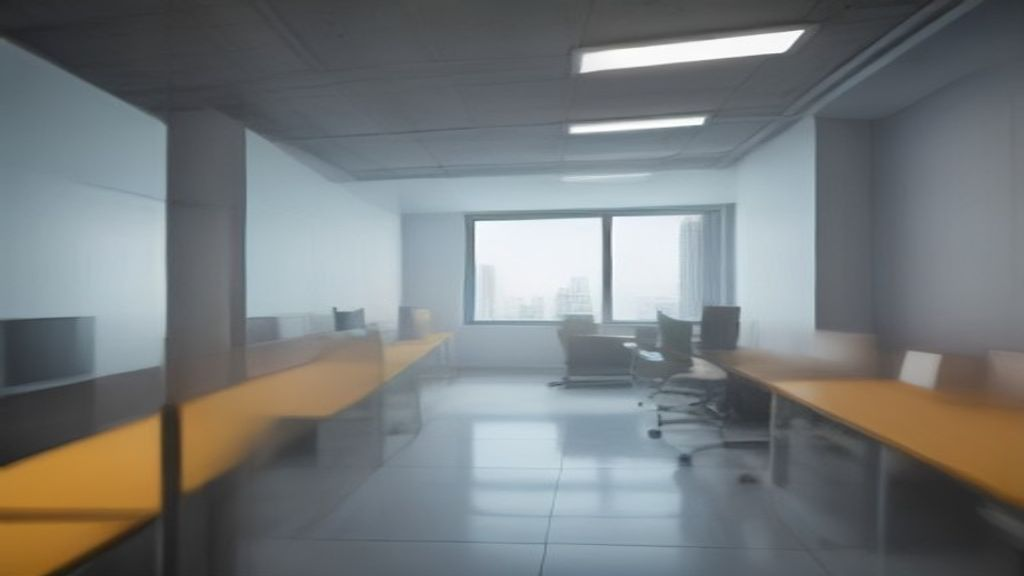
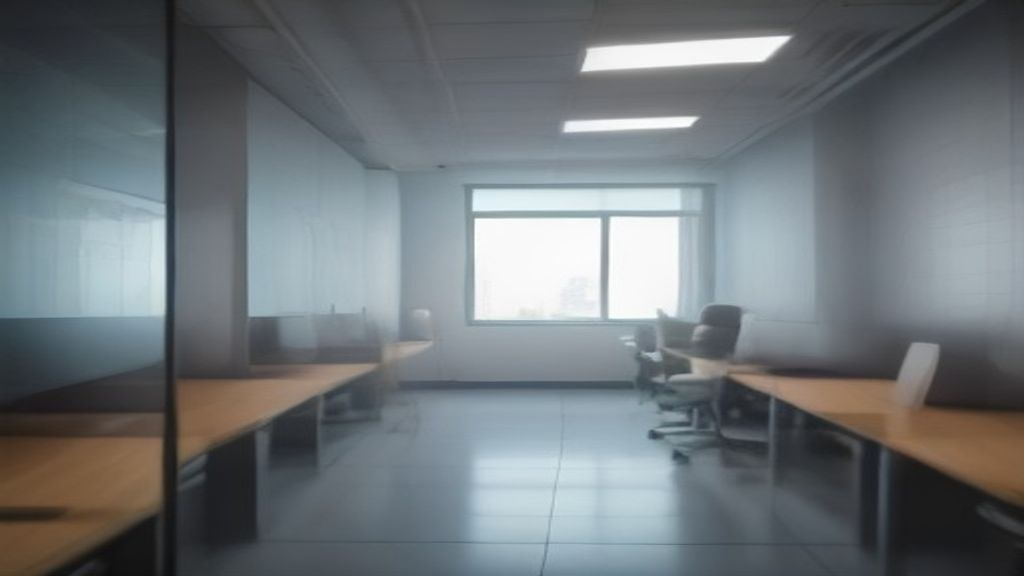
blog: digital-marketing-guide-arab-businesses

diff --git a/src/content/blog/digital-marketing-guide-arab-businesses.md b/src/content/blog/digital-marketing-guide-arab-businesses.md
@@ -1,116 +1,137 @@
 ---
-title: "الدليل الشامل للتسويق الرقمي للشركات العربية: كيف تسيطر على سوق السعودية والإمارات ومصر والأردن في 2026؟"
-description: "اكتشف استراتيجيات التسويق الرقمي الفعالة لزيادة مبيعات شركتك في السوق العربي. دليل تفصيلي حول السيو، إعلانات جوجل، والسوشيال ميديا لتحقيق نمو حقيقي."
-date: "2026-09-07"
+title: "الدليل الشامل للتسويق الرقمي للشركات العربية في 2026: كيف تضاعف مبيعاتك؟"
+description: "تعرف على استراتيجيات التسويق الرقمي الحديثة للشركات في السعودية، الإمارات، مصر، والأردن. دليل تفصيلي حول السيو، إعلانات جوجل، والسوشيال ميديا لزيادة الأرباح."
+date: "2026-09-09"
 author: "يلا ادز"
 image: "/blog-images/digital-marketing-guide-arab-businesses.jpg"
-tags: ["تسويق رقمي", "سيو", "إعلانات جوجل"]
+tags: ["تسويق رقمي", "سيو"]
 ---
 
-في ظل التحول الرقمي المتسارع الذي تشهده المنطقة العربية، لم يعد التواجد على الإنترنت مجرد "خيار" إضافي للشركات، بل أصبح ضرورة للبقاء والنمو. سواء كنت تدير شركة ناشئة في الرياض، أو متجراً إلكترونياً في دبي، أو وكالة خدمات في القاهرة أو عمان، فإن العميل العربي اليوم يبدأ رحلة الشراء من محرك البحث أو منصات التواصل الاجتماعي.
+# الدليل الشامل للتسويق الرقمي للشركات العربية في 2026: كيف تضاعف مبيعاتك؟
 
-لكن السؤال الجوهري هو: كيف تبرز وسط هذا الزحام الرقمي؟ وكيف تحول الزوار العابرين إلى عملاء مخلصين يدفعون مقابل خدماتك؟ في هذا الدليل الشامل من "يلا ادز"، سنقوم بتشريح استراتيجيات التسويق الرقمي الأكثر فعالية والمصممة خصيصاً لتناسب سلوك المستهلك في الخليج وشمال أفريقيا.
+في ظل التحول الرقمي المتسارع الذي تشهده المنطقة العربية، لم يعد التواجد على الإنترنت "خياراً" إضافياً للشركات، بل أصبح ضرورة استراتيجية للبقاء والنمو. سواء كنت تدير شركة ناشئة في الرياض، أو متجراً إلكترونياً في دبي، أو مكتباً استشارياً في القاهرة أو عمان، فإن العميل الذي تبحث عنه يتواجد الآن على هاتفه المحمول، يبحث عن خدماتك عبر جوجل، أو يتصفح منصات التواصل الاجتماعي.
 
-## لماذا يختلف التسويق الرقمي في المنطقة العربية؟
+لكن السؤال الجوهري هو: **كيف تصل إلى هذا العميل وسط هذا الضجيج الرقمي الهائل؟**
 
-قبل الغوص في الأدوات التقنية، يجب أن نفهم أن السوق العربي ليس كتلة واحدة. هناك تباين كبير في السلوك الشرائي بين السعودية والإمارات ومصر والأردن.
+في هذا الدليل التفصيلي من "يلا ادز"، سنأخذك في رحلة تعليمية وعملية حول ركائز التسويق الرقمي الثلاث: تحسين محركات البحث (SEO)، إعلانات جوجل المدفوعة، واستراتيجيات السوشيال ميديا، مع التركيز على خصوصية السوق العربي.
 
-1.  **السوق السعودي والإماراتي:** يتميز بقوة شرائية عالية جداً، وميل كبير نحو استخدام تطبيقات الهاتف المحمول، والاعتماد المكثف على "سناب شات" و"تيك توك" و"إنستغرام".
-2.  **السوق المصري والأردني:** يتميز بكثافة سكانية هائلة وتفاعل اجتماعي مرتفع جداً على "فيسبوك"، مع حساسية أكبر تجاه السعر والعروض الترويجية.
+## أولاً: لماذا يختلف التسويق الرقمي في المنطقة العربية؟
 
-إحصائياً، تشير التقارير الحديثة إلى أن أكثر من 70% من المستهلكين في السعودية يبحثون عن المنتجات عبر الإنترنت قبل زيارة المتجر الفعلي، مما يجعل "ظهورك الرقمي" هو الواجهة الأولى لعلامتك التجارية.
+قبل الدخول في التفاصيل التقنية، يجب أن ندرك أن المستهلك في السعودية أو الإمارات يختلف في سلوكه الشرائي عن المستهلك في مصر أو الأردن. 
 
-## أولاً: تحسين محركات البحث (SEO) - استثمار طويل الأمد
+1. **قوة المحتوى المرئي:** يميل الجمهور العربي بشكل كبير إلى الفيديوهات القصيرة (Reels و TikTok) أكثر من المقالات الطويلة.
+2. **الثقة والمصداقية:** العميل العربي يبحث عن "التوصيات" (Reviews) والشهادات الحقيقية قبل اتخاذ قرار الشراء.
+3. **تنوع اللهجات:** استهداف الجمهور باللغة العربية الفصحى ضروري للمصداقية، لكن استخدام اللهجات المحلية في الإعلانات يزيد من معدلات التحويل (Conversion Rates) بشكل ملحوظ.
 
-يعتبر السيو (SEO) هو العمود الفقري لأي استراتيجية تسويقية ناجحة. بدلاً من دفع مبالغ مستمرة للإعلانات، يمنحك السيو "زيارات مجانية" ومستدامة.
+### إحصائيات تهمك في 2026:
+- تشير الدراسات الحديثة إلى أن أكثر من 70% من عمليات الشراء في الخليج العربي تبدأ ببحث على محرك جوجل.
+- تزايد الاعتماد على "التجارة عبر التواصل الاجتماعي" (Social Commerce) بنسبة 40% في الأسواق المصرية والأردنية.
+- متوسط الوقت الذي يقضيه المستخدم العربي على منصات التواصل الاجتماعي يتجاوز 3 ساعات يومياً.
+
+---
+
+## ثانياً: سيو (SEO) - كيف تتصدر نتائج البحث وتجذب عملاء مجانيين؟
+
+تحسين محركات البحث أو الـ SEO هو الاستثمار طويل الأمد الذي يضمن لشركتك تدفقاً مستمراً من الزوار دون الحاجة لدفع مبالغ مالية مقابل كل نقرة.
 
 ### 1. البحث عن الكلمات المفتاحية (Keyword Research)
-الخطأ الأكبر الذي تقع فيه الشركات العربية هو استهداف كلمات مفتاحية عامة جداً. بدلاً من استهداف كلمة "أحذية"، استهدف "أفضل أحذية طبية في الرياض". هذا ما نسميه "الكلمات المفتاحية ذات الذيل الطويل" (Long-tail Keywords)، وهي التي تجلب عملاء جاهزين للشراء فعلياً.
+الخطأ الأكبر الذي تقع فيه الشركات العربية هو استهداف كلمات عامة جداً. بدلاً من استهداف كلمة "شركة تسويق"، استهدف "أفضل شركة تسويق رقمي في الرياض". هذه تسمى **الكلمات المفتاحية الطويلة (Long-tail Keywords)**، وهي التي تجلب عملاء جاهزين للشراء فعلياً.
 
-### 2. تحسين المحتوى العربي (Content Optimization)
-محركات البحث مثل جوجل أصبحت تفهم اللغة العربية بشكل أفضل، لكنها لا تزال تفضل المحتوى الذي يقدم "قيمة حقيقية". لا تكتب من أجل الروبوتات، بل اكتب من أجل البشر. استخدم لغة بيضاء (فصحى مبسطة) يفهمها الجميع من الخليج إلى المحيط.
+### 2. تحسين المحتوى (On-Page SEO)
+يجب أن يكون محتواك مفيداً ويجيب على تساؤلات العميل. لا تكتب من أجل محرك البحث، بل اكتب من أجل الإنسان، ثم قم بتنسيق المقال ليفهمه جوجل. تأكد من:
+- استخدام ترويسات (H1, H2, H3) واضحة.
+- تحسين سرعة تحميل الموقع (خاصة لمستخدمي الجوال).
+- كتابة وصف ميتا (Meta Description) جذاب يشجع على النقر.
 
-### 3. السيو المحلي (Local SEO)
-إذا كان لديك مقر في دبي أو القاهرة، فإن "جوجل خرائط" (Google Business Profile) هو كنزك المدفون. تأكد من توثيق نشاطك التجاري، وإضافة صور حقيقية، وتحفيز عملائك على ترك مراجعات إيجابية، لأن هذا يرفع ترتيبك في نتائج البحث المحلية بشكل مذهل.
+### 3. بناء السلطة والروابط الخارجية (Off-Page SEO)
+جوجل يثق في المواقع التي تشير إليها مواقع أخرى موثوقة. ابحث عن شراكات مع مدونات تقنية أو إخبارية عربية لنشر مقالات تتحدث عن خدماتك. إذا كنت ترغب في معرفة المزيد حول كيفية بناء استراتيجية محتوى متكاملة، يمكنك الاطلاع على مقالنا حول [أهمية التسويق بالمحتوى](/blog/content-marketing-importance) لزيادة وعي العملاء بعلامتك التجارية.
 
-لتعميق معرفتك في هذا المجال، يمكنك الاطلاع على مقالنا المفصل حول [أسرار تصدر نتائج البحث في جوجل](/blog/seo-secrets-arabic) لضمان وصول عملائك إليك قبل المنافسين.
+---
 
-## ثانياً: إعلانات جوجل (Google Ads) - الطريق السريع للمبيعات
+## ثالثاً: إعلانات جوجل (Google Ads) - الطريق المختصر للنتائج السريعة
 
-بينما يحتاج السيو إلى وقت، تمنحك إعلانات جوجل نتائج فورية. لكن بدون استراتيجية، قد تكون هذه الإعلانات مجرد "حرق للأموال".
+إذا كان السيو هو "الزراعة" التي تجني ثمارها لاحقاً، فإن إعلانات جوجل هي "الصيد المباشر". أنت تدفع لتظهر في النتيجة الأولى فوراً أمام العميل الذي يبحث عن خدمتك الآن.
 
-### استراتيجيات إعلانات جوجل الناجحة للشركات العربية:
+### أنواع الحملات التي ننصح بها للشركات العربية:
+1. **حملات البحث (Search Ads):** مثالية للخدمات العاجلة (مثل: سباك في دبي، شركة نقل عفش في جدة).
+2. **حملات الشبكة الإعلانية (Display Ads):** ممتازة لزيادة الوعي بالعلامة التجارية (Brand Awareness) من خلال صور جذابة تظهر في المواقع الإخبارية.
+3. **إعلانات التسوق (Shopping Ads):** الخيار الأول والأساسي لأصحاب المتاجر الإلكترونية في السعودية والإمارات.
 
-*   **شبكة البحث (Search Network):** استهدف الأشخاص الذين يبحثون عن خدمتك الآن. إذا كنت شركة شحن في الأردن، فإن ظهورك في النتيجة الأولى عندما يبحث العميل عن "شركة شحن سريعة في عمان" هو مفتاح النجاح.
-*   **إعلانات إعادة الاستهداف (Remarketing):** هل لاحظت أنك تدخل موقعاً معيناً ثم تلاحقك إعلاناته في كل مكان؟ هذا هو سر زيادة التحويلات. العميل نادراً ما يشتري من المرة الأولى، لذا فإن تذكيره بمنتجك يعيد بناء الثقة ويزيد من احتمالية إتمام العملية.
-*   **تحسين صفحة الهبوط (Landing Page Optimization):** أكبر خطأ هو توجيه إعلان مدفوع إلى الصفحة الرئيسية للموقع. يجب أن يذهب العميل إلى صفحة مخصصة تعرض العرض الذي نقر عليه، مع وجود "زر اتخاذ إجراء" (CTA) واضح وصريح مثل "اطلب الآن" أو "احصل على استشارة مجانية".
+### نصائح ذهبية لخفض تكلفة النقرة (CPC) وزيادة العائد:
+- **تحديد الموقع الجغرافي بدقة:** لا تستهدف "السعودية" كاملة إذا كانت خدمتك تتركز في "المنطقة الشرقية" فقط.
+- **استخدام الإضافات (Ad Extensions):** أضف رقم هاتفك، وموقع شركتك، وروابط سريعة لصفحات الخدمات لزيادة نسبة النقر (CTR).
+- **صفحة الهبوط (Landing Page):** أكبر خطأ هو توجيه العميل إلى الصفحة الرئيسية للموقع. وجهه إلى صفحة مخصصة تتحدث عن العرض الذي رآه في الإعلان فقط.
 
-نحن في "يلا ادز" نؤمن بأن التكامل هو السر، لذا ننصحك بدمج [إدارة الحملات الإعلانية الممولة](/blog/paid-ads-management) مع استراتيجية السيو لتحقيق أقصى استفادة من ميزانيتك التسويقية.
+---
 
-## ثالثاً: التسويق عبر منصات التواصل الاجتماعي (Social Media)
+## رابعاً: السوشيال ميديا - بناء المجتمع والولاء
 
-في العالم العربي، السوشيال ميديا ليست للترفيه فقط، بل هي محرك أساسي لاتخاذ قرار الشراء.
+في العالم العربي، السوشيال ميديا ليست مجرد منصة للإعلان، بل هي "مجلس" للتواصل.
 
-### اختيار المنصة المناسبة حسب الجمهور:
+### اختيار المنصة المناسبة حسب جمهورك:
+- **إنستجرام وتيك توك:** إذا كانت منتجاتك بصرية (أزياء، مطاعم، ديكور، تجميل). الجمهور هنا يبحث عن الإبهار البصري والفيديوهات القصيرة.
+- **لينكد إن (LinkedIn):** إذا كانت شركتك تقدم خدمات B2B (خدمات للشركات الأخرى، استشارات قانونية، برمجيات).
+- **فيسبوك:** لا يزال يتصدر في مصر والأردن للتواصل المجتمعي والمجموعات (Groups).
+- **سناب شات:** القوة الضاربة في السوق السعودي، خاصة للفئات العمرية الشابة.
 
-1.  **تيك توك وسناب شات:** هما الملوك في السعودية والكويت والإمارات، خاصة للفئات العمرية الشابة. المحتوى هنا يجب أن يكون "عفوياً"، "سريعاً"، و"بصرياً". ابتعد عن الإعلانات التقليدية المملة، واتجه نحو "صناعة المحتوى" الذي يحل مشكلة.
-2.  **إنستغرام:** المنصة المثالية للمنتجات التي تعتمد على الشكل (أزياء، ديكور، مطاعم، تجميل). ركز على "الريلز" (Reels) والقصص (Stories) لبناء علاقة تفاعلية مع المتابعين.
-3.  **فيسبوك:** لا يزال يتصدر المشهد في مصر والأردن والمغرب العربي. هو الأفضل لبناء المجتمعات (Groups) وإدارة الحملات الإعلانية الدقيقة التي تستهدف اهتمامات محددة.
-4.  **لينكد إن (LinkedIn):** إذا كانت شركتك تقدم خدمات للشركات الأخرى (B2B)، فإن لينكد إن هو مكانك الوحيد لبناء السلطة المهنية وجذب الشركاء والعملاء رفيعي المستوى.
+### استراتيجية المحتوى الناجحة:
+لا تجعل حسابك "كتالوج" للمنتجات والأسعار فقط، بل اتبع قاعدة (80/20):
+- **80% محتوى تعليمي، ترفيهي، أو تفاعلي:** نصائح، قصص نجاح، كواليس العمل، استطلاعات رأي.
+- **20% محتوى بيعي مباشر:** عروض، خصومات، طلب شراء.
 
-### نصيحة ذهبية في السوشيال ميديا: "قاعدة 80/20"
-لا تجعل حسابك عبارة عن كتالوج للمنتجات. اجعل 80% من محتواك تعليمياً، ترفيهياً، أو ملهماً، و20% فقط هو الذي يروج لمنتجاتك بشكل مباشر. هذا يبني "ولاءً" للعلامة التجارية بدلاً من النفور من الإعلانات.
+لضمان وصول هذا المحتوى لأكبر عدد من الناس، يمكنك دمج استراتيجيات السوشيال ميديا مع [إعلانات ممولة](/blog/paid-ads-guide) مدروسة تستهدف بدقة اهتمامات وعمر وموقع جمهورك المستهدف.
 
-## رابعاً: تحليل البيانات وتطوير الأداء (Analytics)
+---
 
-التسويق الرقمي بدون تحليل بيانات هو مجرد "تخمين". يجب أن تعرف من أين يأتي عملاؤك، وما هي الصفحة التي يغادرون منها موقعك، وما هو المنتج الذي يثير اهتمامهم أكثر.
+## خامساً: كيف تقيس نجاح حملاتك التسويقية؟ (التحليلات)
+
+التسويق بدون تحليل هو مجرد "تخمين". لكي تعرف أين تضع ميزانيتك في الشهر القادم، يجب أن تراقب الأرقام التالية:
+
+1. **معدل التحويل (Conversion Rate):** كم شخصاً من الذين زاروا موقعك قاموا فعلياً بالشراء أو التواصل معك؟
+2. **تكلفة الاستحواذ على العميل (CAC):** كم دفعت من إعلانات لكي تحصل على عميل واحد جديد؟
+3. **القيمة الدائمة للعميل (LTV):** هل العميل يشتري منك مرة واحدة أم يعود للشراء مجدداً؟
+4. **معدل الارتداد (Bounce Rate):** إذا كان الزوار يغادرون موقعك فور دخوله، فهذا يعني أن هناك مشكلة في سرعة الموقع أو أن المحتوى غير ملائم.
 
 ### أدوات لا غنى عنها:
-*   **Google Analytics 4:** لفهم سلوك الزوار داخل موقعك.
-*   **Facebook Pixel:** لتتبع التحويلات وتحسين استهداف الإعلانات.
-*   **Hotjar:** لرؤية كيف يتفاعل المستخدمون مع موقعك عبر "خرائط حرارية".
+- **Google Analytics 4:** لفهم سلوك الزوار داخل موقعك.
+- **Google Search Console:** لمراقبة أداء السيو والكلمات التي تجلب الزوار.
+- **Facebook Pixel:** لإعادة استهداف الأشخاص الذين زاروا موقعك ولم يشتروا (Retargeting).
 
-عندما تحلل بياناتك، ستكتشف مثلاً أن 90% من زياراتك تأتي من الجوال، مما يعني أن أي خلل بسيط في نسخة الموبايل من موقعك قد يكلفك خسارة آلاف الدولارات من المبيعات.
+---
 
-## خطة عمل تطبيقية لشركتك (Roadmap)
+## سادساً: خطة عمل تطبيقية لشركتك (خارطة طريق لـ 90 يوماً)
 
-إذا كنت تبدأ الآن، إليك هذه الخطة المقترحة للستة أشهر القادمة:
+إذا كنت تشعر بالتشتت، إليك هذه الخطة المبسطة للبدء فوراً:
 
-**الشهر الأول: التأسيس والتحليل**
-*   تحليل المنافسين في سوقك (ماذا يفعلون؟ أين نقاط ضعفهم؟).
-*   تحديد "شخصية العميل" (Buyer Persona) بدقة.
-*   تجهيز موقع إلكتروني سريع ومتوافق مع الجوال.
+### الشهر الأول: التأسيس والبنية التحتية
+- تحليل المنافسين في سوقك (ماذا يفعلون؟ وأين نقاط ضعفهم؟).
+- تحسين سرعة موقعك الإلكتروني وتأكده من التوافق مع الجوال.
+- تحديد "شخصية العميل" (Buyer Persona) بدقة (العمر، الاهتمامات، المشاكل التي يحلها منتجك).
 
-**الشهر الثاني والثالث: بناء الظهور**
-*   البدء في كتابة مقالات مفيدة تستهدف الكلمات المفتاحية التي يبحث عنها عملاؤك (سيو).
-*   إطلاق حملات تجريبية على جوجل وسوشيال ميديا بميزانية منخفضة لاختبار الرسائل التسويقية.
-*   تفعيل حساب "جوجل نشاطي التجاري".
+### الشهر الثاني: إطلاق الماكينة التسويقية
+- البدء في نشر محتوى تعليمي على السوشيال ميديا (3-4 منشورات أسبوعياً).
+- إطلاق حملة تجريبية على إعلانات جوجل بكلمات مفتاحية محددة جداً.
+- كتابة 4 مقالات سيو (SEO) تستهدف مشاكل عملائك الشائعة.
 
-**الشهر الرابع والخامس: التوسع والتحسين**
-*   زيادة الميزانية في القنوات التي حققت أعلى "عائد على الاستثمار" (ROI).
-*   تفعيل حملات إعادة الاستهداف (Remarketing) لزيادة نسبة التحويل.
-*   التعاون مع "المؤثرين الصغار" (Micro-Influencers) في تخصصك لزيادة الثقة.
+### الشهر الثالث: التحليل والتحسين (Optimization)
+- مراجعة البيانات: أي المنصات حققت أعلى عائد؟
+- زيادة الميزانية في القنوات الناجحة وإيقاف الحملات الضعيفة.
+- البدء في حملات "إعادة الاستهداف" لتحويل المترددين إلى مشترين.
 
-**الشهر السادس: القياس والنمو**
-*   مراجعة شاملة للبيانات وتعديل الاستراتيجية بناءً على النتائج الفعلية.
-*   أتمتة بعض العمليات التسويقية (مثل رسائل البريد الإلكتروني الترحيبية).
+---
 
-## تحديات التسويق الرقمي في المنطقة العربية وكيفية تجاوزها
+## الخلاصة: التسويق الرقمي هو رحلة وليس وجهة
 
-1.  **تعدد اللهجات:** الحل هو استخدام "اللغة البيضاء" في المحتوى العام، واستخدام اللهجة المحلية فقط في الإعلانات الموجهة لبلد معين لزيادة القرب من العميل.
-2.  **انعدام الثقة في الدفع الإلكتروني:** لا يزال "الدفع عند الاستلام" مسيطراً في بعض الأسواق. قدم هذا الخيار لزيادة المبيعات في البداية، ثم شجع العملاء تدريجياً على الدفع الإلكتروني عبر تقديم خصومات بسيطة.
-3.  **المنافسة الشرسة في الأسعار:** لا تدخل في "حرب أسعار" لأنها ستؤدي إلى تدمير هامش ربحك. بدلاً من ذلك، ركز على "القيمة المضافة". اجعل العميل يشعر أن خدمتك توفر له الوقت، الجودة، أو الراحة التي لا يجدها عند المنافس الأرخص.
+السر في النجاح الرقمي للشركات العربية ليس في امتلاك ميزانية ضخمة، بل في **الاستمرارية والتجربة**. السوق يتغير، وخوارزميات جوجل وفيسبوك تتحدث يومياً، والشركة التي تفوز هي التي تستطيع التكيف بسرعة مع هذه التغييرات.
 
-## الخلاصة: المستقبل لمن يتكيف
+تذكر أن التكامل هو المفتاح؛ السيو يجلب لك الثقة والمجانية، وإعلانات جوجل تجلب لك السرعة والنمو، والسوشيال ميديا تبني لك الولاء والعلاقة الإنسانية مع عملائك.
 
-التسويق الرقمي ليس مجرد "أدوات"، بل هو "عقلية". العميل العربي ذكي، متطلب، ويبحث دائماً عن الصدق والجودة. الشركات التي ستنجح في 2026 هي التي تستطيع بناء علاقة إنسانية مع عملائها عبر الشاشات، والتي تدمج بين قوة السيو، دقة إعلانات جوجل، وتفاعلية السوشيال ميديا.
+### هل أنت مستعد لنقل شركتك إلى المستوى التالي؟
 
-تذكر أن الاستمرارية هي السر. لن تصبح رقم 1 في جوجل بين عشية وضحاها، ولن تحقق مبيعات مليونية من إعلان واحد. لكن مع استراتيجية مدروسة، تحليل دقيق، ومحتوى يلامس احتياجات الجمهور، ستتحول علامتك التجارية من مجرد "اسم" إلى "خيار أول" في ذهن العميل.
+في "يلا ادز"، نحن لا نقدم مجرد خدمات تسويقية، بل نبني شراكات نجاح. نحن نفهم تفاصيل السوق السعودي والإماراتي والمصري والأردني، ونعرف بالضبط ما الذي يحرك العميل العربي للشراء.
 
-**هل أنت جاهز لنقل شركتك إلى المستوى التالي من النمو؟**
+سواء كنت تبحث عن تصدر نتائج البحث في جوجل، أو إطلاق حملات إعلانية تحقق أعلى عائد على الاستثمار (ROI)، أو إدارة احترافية لمنصات التواصل الاجتماعي، فإن فريقنا من الخبراء جاهز لمساعدتك.
 
-في "يلا ادز"، نحن لا نقدم مجرد خدمات تسويقية، بل نبني شراكات نجاح. سواء كنت تبحث عن تصدر نتائج البحث، أو إطلاق حملات إعلانية تحقق مبيعات حقيقية، أو بناء استراتيجية متكاملة لعلامتك التجارية في السوق العربي، فنحن هنا لنقوم بالمهمة بدلاً منك وباحترافية مطلقة.
+**لا تترك عملائك للمنافسين.. ابدأ اليوم في بناء إمبراطوريتك الرقمية مع يلا ادز!**
 
-**لا تترك نمو شركتك للصدفة.. ابدأ اليوم مع يلا ادز وحول رؤيتك إلى واقع رقمي ملموس!**
-
-تسويق رقمي | سيو | إعلانات جوجل
+تواصل معنا الآن للحصول على استشارة تسويقية مجانية لشركتك.
